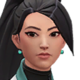
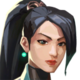
Added new images to be consistent

diff --git a/index.html b/index.html
@@ -35,7 +35,7 @@
         <img src="assets\agent\sage.png" id="sage">
         <img src="assets\agent\sova.png" id="sova">
         <img src="assets\agent\viper.png" id="viper">
-        <img src="assets\agent\fullscale\killjoy.png" id="killjoy" style="object-fit: none;object-position: 55% top;">
+        <img src="assets\agent\killjoy.png" id="killjoy">
     </div>
 </body>
 </html>
